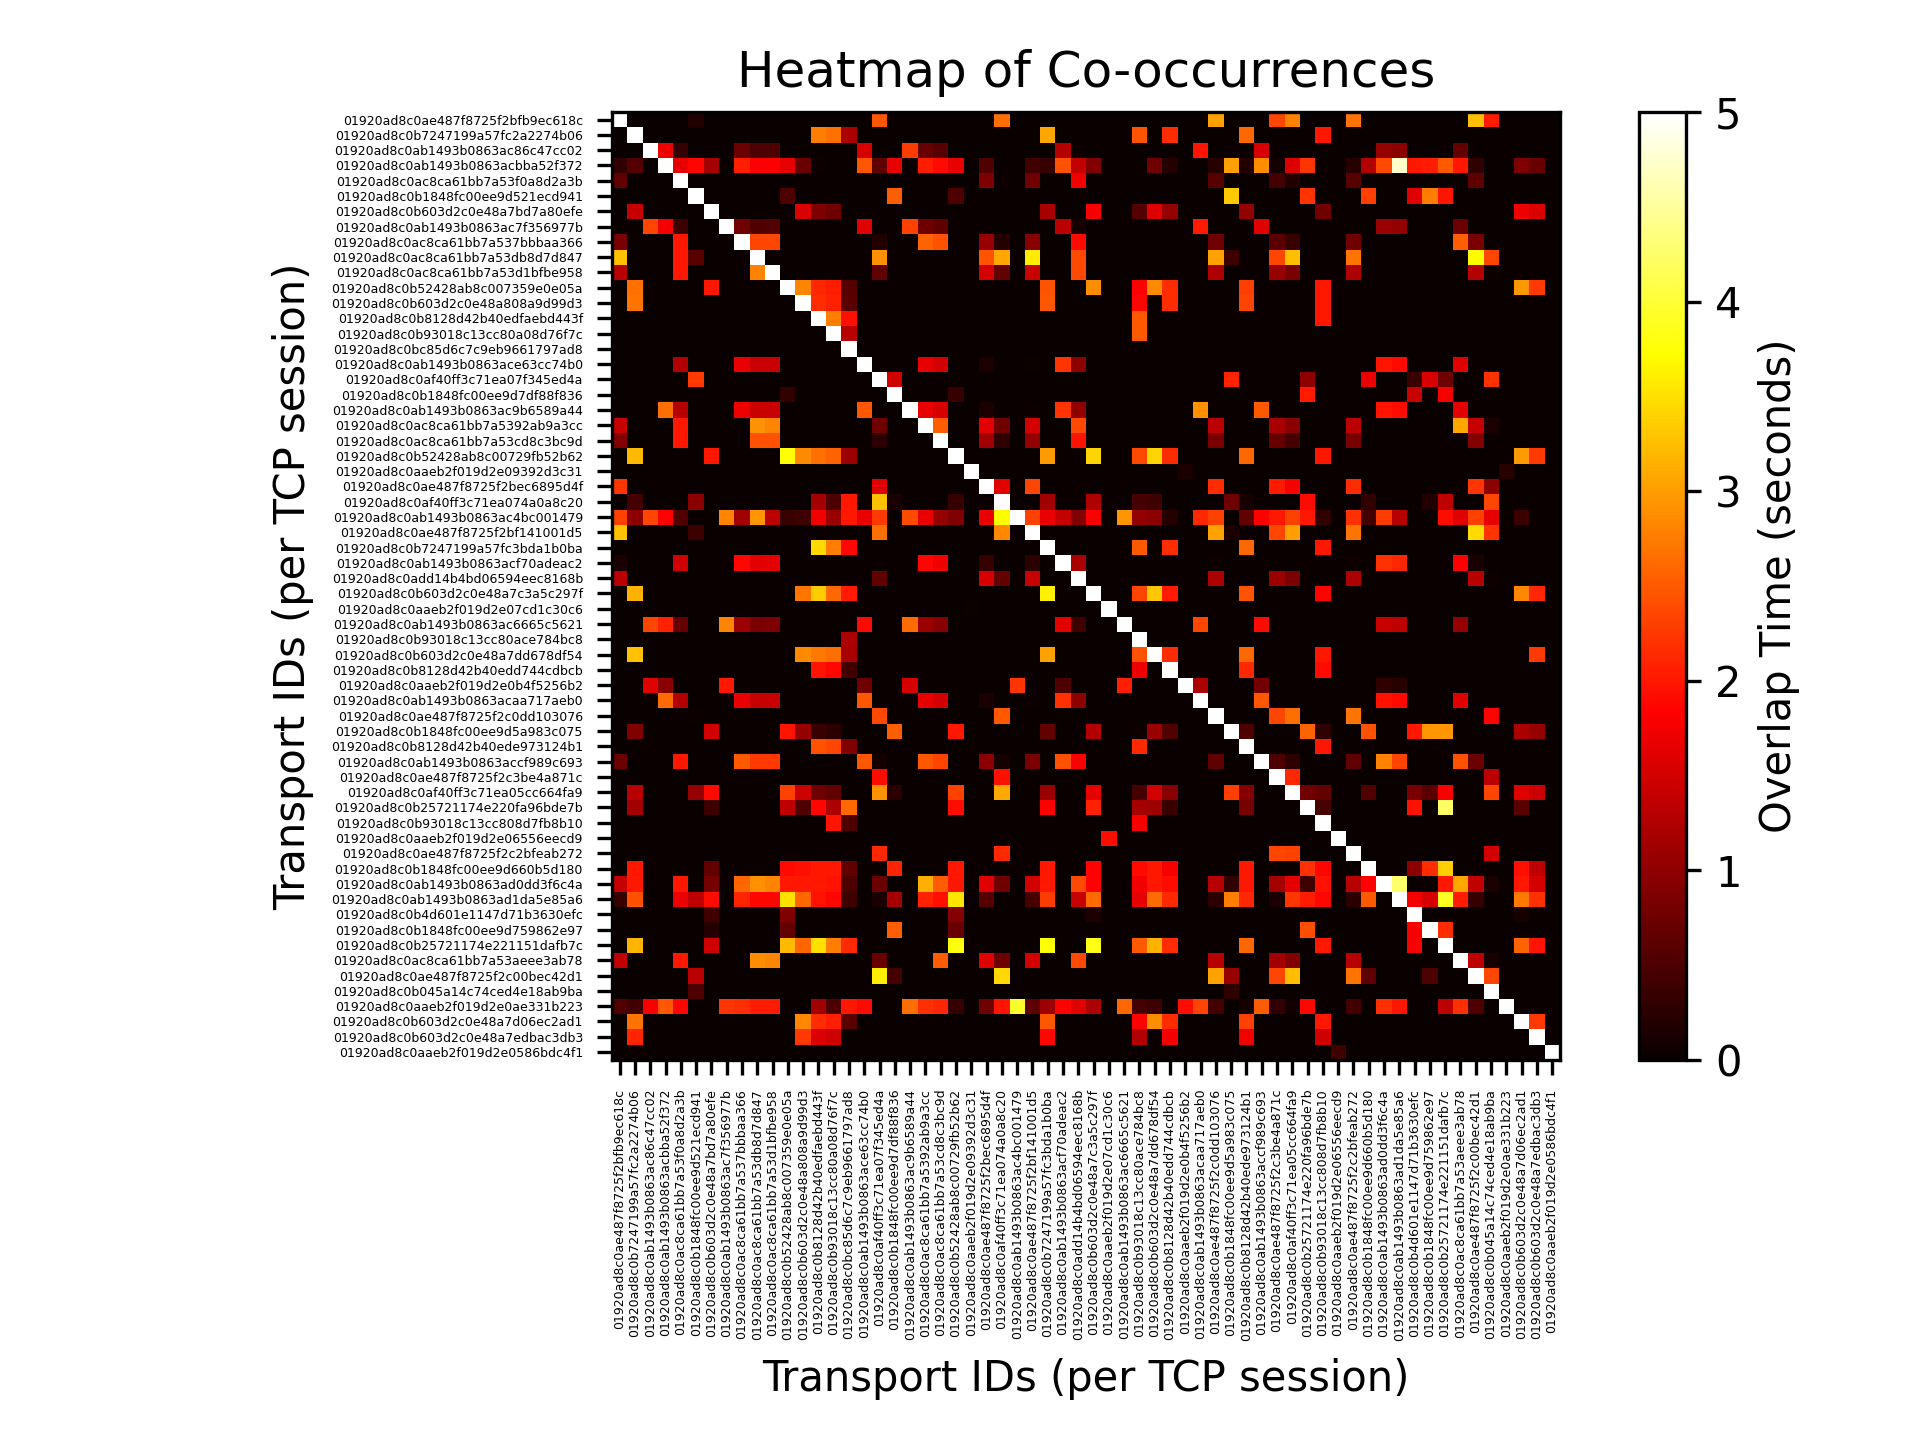
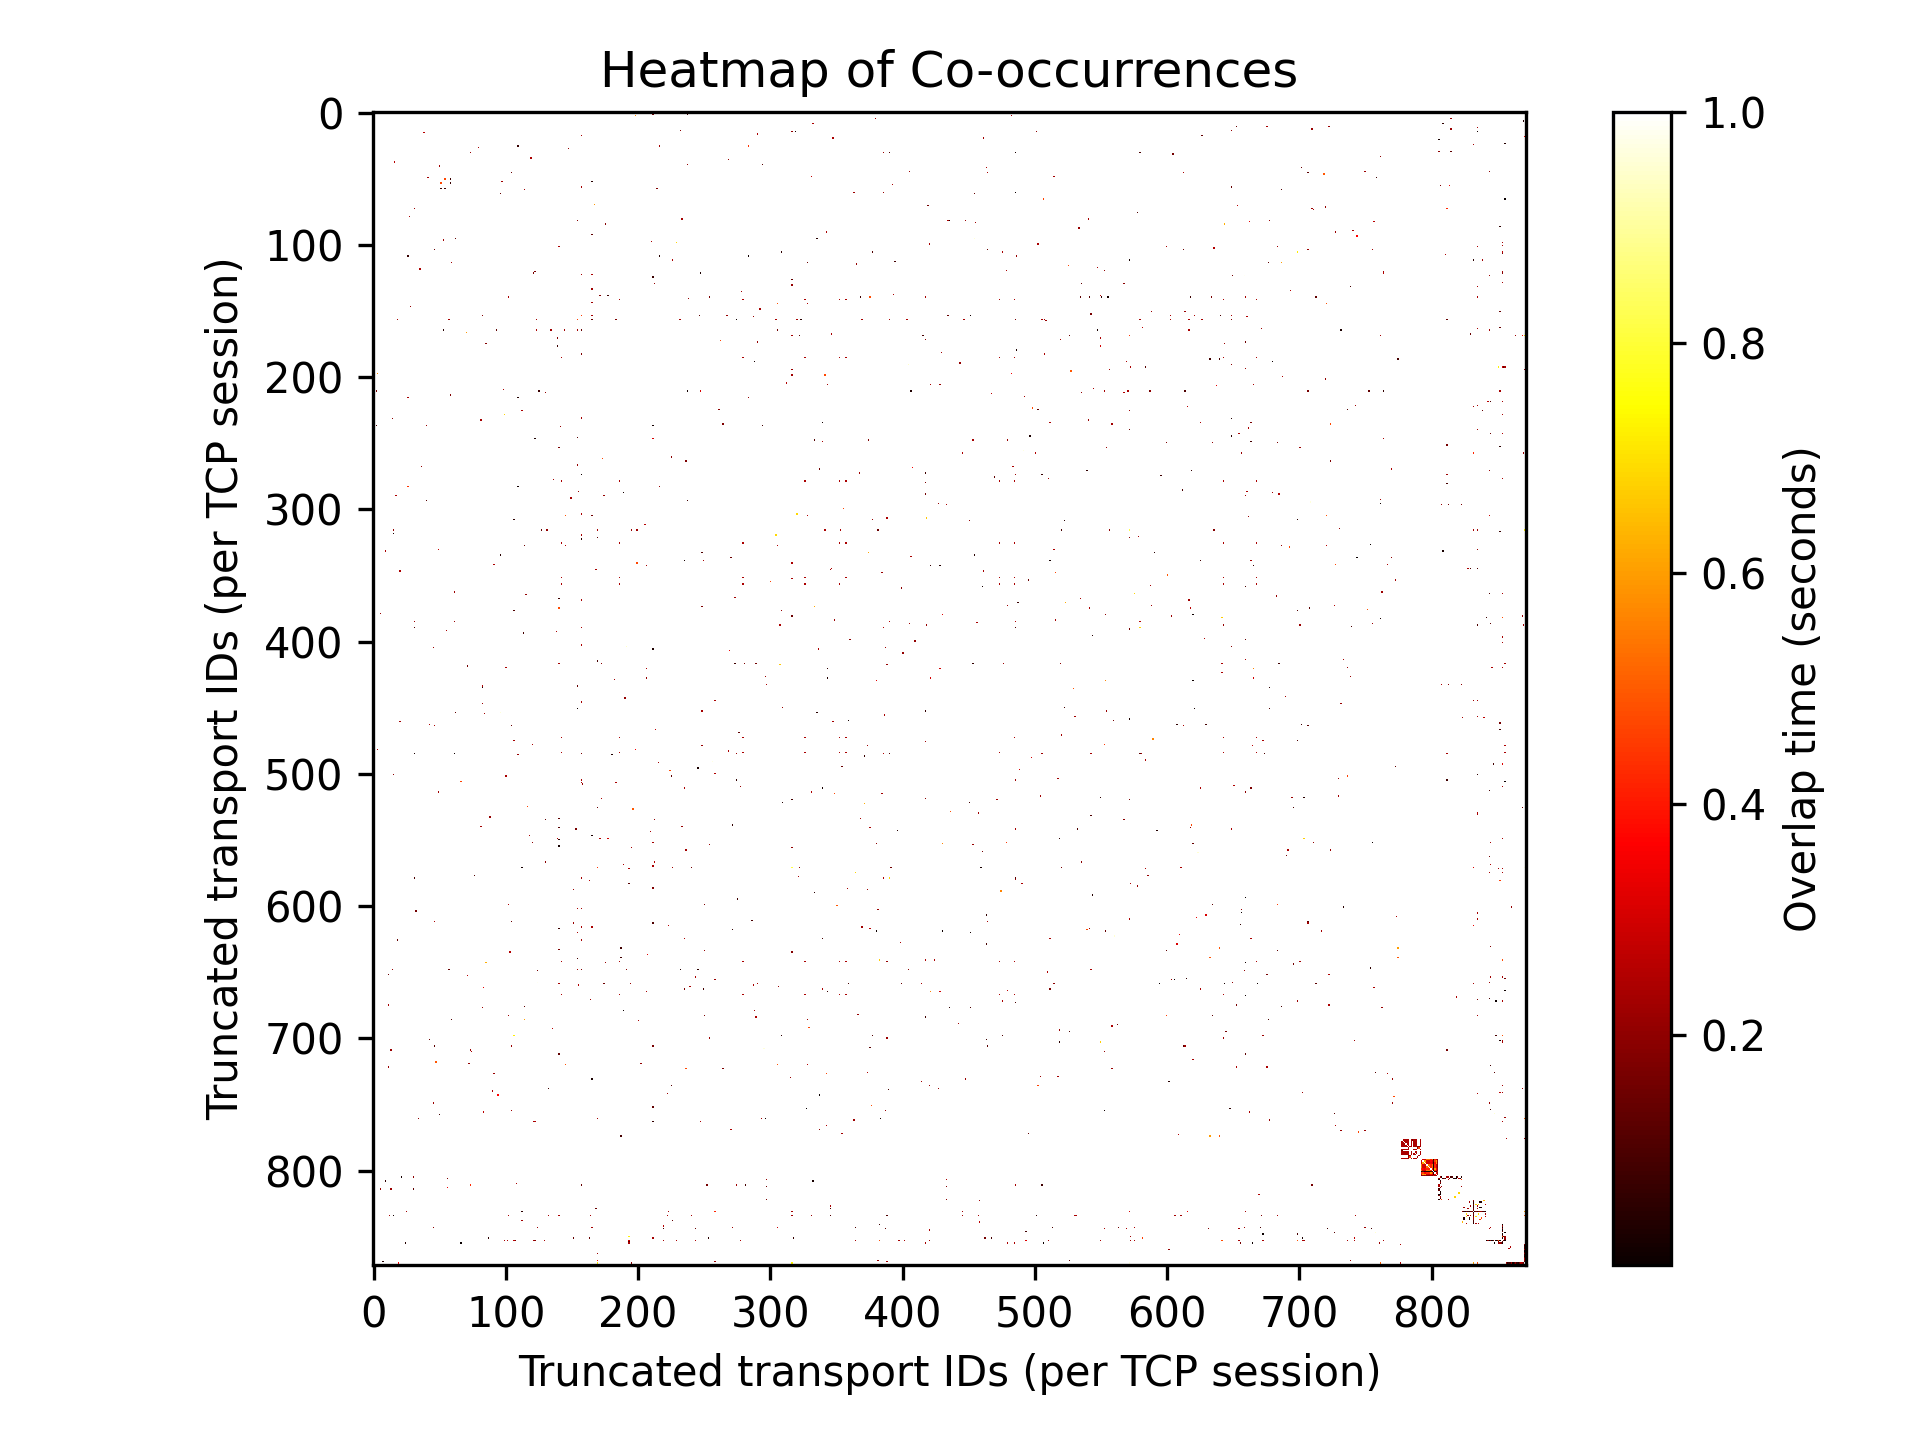
rudimentary implementation of clustering in python

diff --git a/inspect/analysis/main.py b/inspect/analysis/main.py
@@ -3,68 +3,105 @@ import numpy as np
 import matplotlib.pyplot as plt
 import os
 
+import numpy as np
+from sklearn.cluster import OPTICS
+from scipy.spatial.distance import pdist, squareform
+import seaborn as sns
+
+ENABLE_LABELS = False
+
+
 def load_map(filename):
-    with open(filename, 'rb') as f:
+    with open(filename, "rb") as f:
         data = f.read()
 
     outer_maps = cooccurrence_pb2.OuterMaps()
     outer_maps.ParseFromString(data)
 
+    max_value = -1
+
     result = {}
     for outer in outer_maps.outer_map:
-        outer_key = outer.key.hex()  # Convert bytes to the appropriate format
+        outer_key = outer.key.hex()
         inner_map = {}
         for inner in outer.inner_map:
-            inner_key = inner.key.hex()  # Convert bytes to the appropriate format
+            inner_key = inner.key.hex()
             inner_map[inner_key] = inner.value
+            if inner.value > max_value:
+                max_value = inner.value
         result[outer_key] = inner_map
 
-    return result
+    return result, max_value
 
-def create_heatmap(data):
+
+def create_heatmap(data, max_value):
     keys = list(data.keys())
     size = len(keys)
-    heatmap_data = np.zeros((size, size))
-    
-    for i, outer_key in enumerate(keys):
-        for j, inner_key in enumerate(keys):
-            if i == j:
-                heatmap_data[i, j] = 5
-            # if j > i:
-                continue
-            if inner_key in data[outer_key]:
-                heatmap_data[i, j] = data[outer_key][inner_key] / 1e9
-                
-                
-    for i, outer_key in enumerate(heatmap_data):
-        for j, inner_key in enumerate(heatmap_data):
-            if heatmap_data[i, j] != heatmap_data[j, i]:
-                print("dhsdfhdfs")
-                break
-        
+    heatmap_data = np.ones((size, size))
 
-    plt.imshow(heatmap_data, cmap='hot', interpolation='nearest')
-    
+    for i, key_i in enumerate(keys):
+        for j, key_j in enumerate(keys):
+            if key_j in data[key_i]:
+                if heatmap_data[i, j] + heatmap_data[j, i] < 2:
+                    # non-zero value exists for data[key_i][key_j] and data[key_j][key_i]
+                    print(f"Duplicate entry found for {key_i} and {key_j}")
+                    return
+                large = max(i, j)
+                small = min(i, j)
+                # time_in_sec = data[key_i][key_j]  # / 1e9
+                # final_val = 1 / (time_in_sec + 1e-9)
+                final_val = data[key_i][key_j] / max_value
+                heatmap_data[large, small] = final_val
+                heatmap_data[small, large] = final_val
+
+    optics = OPTICS(
+        min_samples=10, metric="precomputed"  # , max_eps=0.97
+    )  # use 'precomputed' since we're providing a distance matrix
+    optics.fit(heatmap_data)
+
+    labels = optics.labels_  # Cluster labels for each ID
+    # for i, label in enumerate(labels):
+    #     print(f"ID {keys[i]} is in cluster {label}")
+
+    clusters = {}
+    for id_, cluster_id in enumerate(labels):
+        if cluster_id not in clusters:
+            clusters[cluster_id] = []
+        clusters[cluster_id].append(id_)
+
+    print(clusters)
+
+    # Reorder the shared time matrix
+    ordered_ids = []
+    for cluster_id in sorted(clusters.keys()):
+        ordered_ids.extend(clusters[cluster_id])
+
+    reordered_matrix = heatmap_data[np.ix_(ordered_ids, ordered_ids)]
+    plt.imshow(reordered_matrix, cmap="hot", interpolation="nearest")
+
     cb = plt.colorbar()
-    cb.set_label('Overlap Time (seconds)')
-    plt.xticks(ticks=np.arange(size), labels=keys, rotation=90)
-    plt.yticks(ticks=np.arange(size), labels=keys)
-    plt.tick_params(axis='both', labelsize=3)  # Set the size of the tick labels
-    plt.xlabel("Transport IDs (per TCP session)")
-    plt.ylabel("Transport IDs (per TCP session)")
+    cb.set_label("Overlap time (seconds)")
+    if ENABLE_LABELS:
+        truncated_keys = []
+        for cluster_id in sorted(clusters.keys()):
+            for id_ in clusters[cluster_id]:
+                truncated_keys.append(f"…{keys[id_][-5:]}({cluster_id})")
+        plt.xticks(ticks=np.arange(size), labels=truncated_keys, rotation=90)
+        plt.yticks(ticks=np.arange(size), labels=truncated_keys)
+        plt.tick_params(axis="both", labelsize=4)
+    xy_label = "Truncated transport IDs (per TCP session)"
+    plt.xlabel(xy_label)
+    plt.ylabel(xy_label)
 
-    plt.title('Heatmap of Co-occurrences')
+    plt.title("Heatmap of Co-occurrences")
     plt.tight_layout()
 
-    # Save the heatmap as an image
-    plt.savefig("../images/heatmap.png", dpi=300)  # Adjust the dpi value as needed
-    plt.close()  # Close the plot to free memory
+    plt.savefig("../images/heatmap.png", dpi=300)
+    plt.close()
 
-# Example usage
+
 if __name__ == "__main__":
-    filename = "../data/cooccurrence_data_small.pb"  # Replace with your actual file name
-    loaded_data = load_map(filename)
-    # print("Loaded data:", loaded_data)
-
-    # Create the heatmap
-    create_heatmap(loaded_data)
+    filename = "../data/cooccurrence_data_2k.pb"
+    # filename = "../data/cooccurrence_data_small.pb"
+    loaded_data, max_value = load_map(filename)
+    create_heatmap(loaded_data, max_value)
